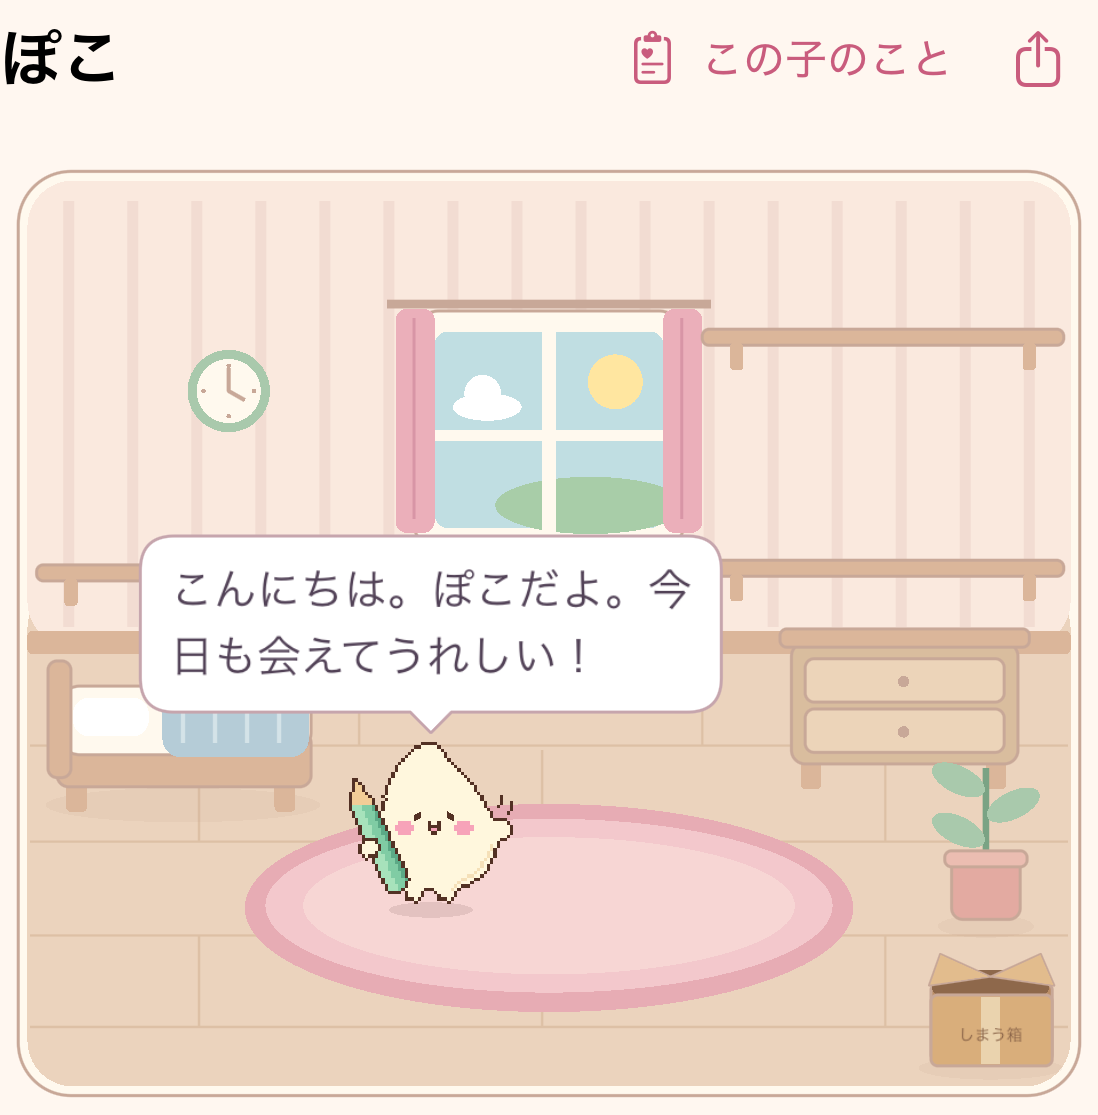
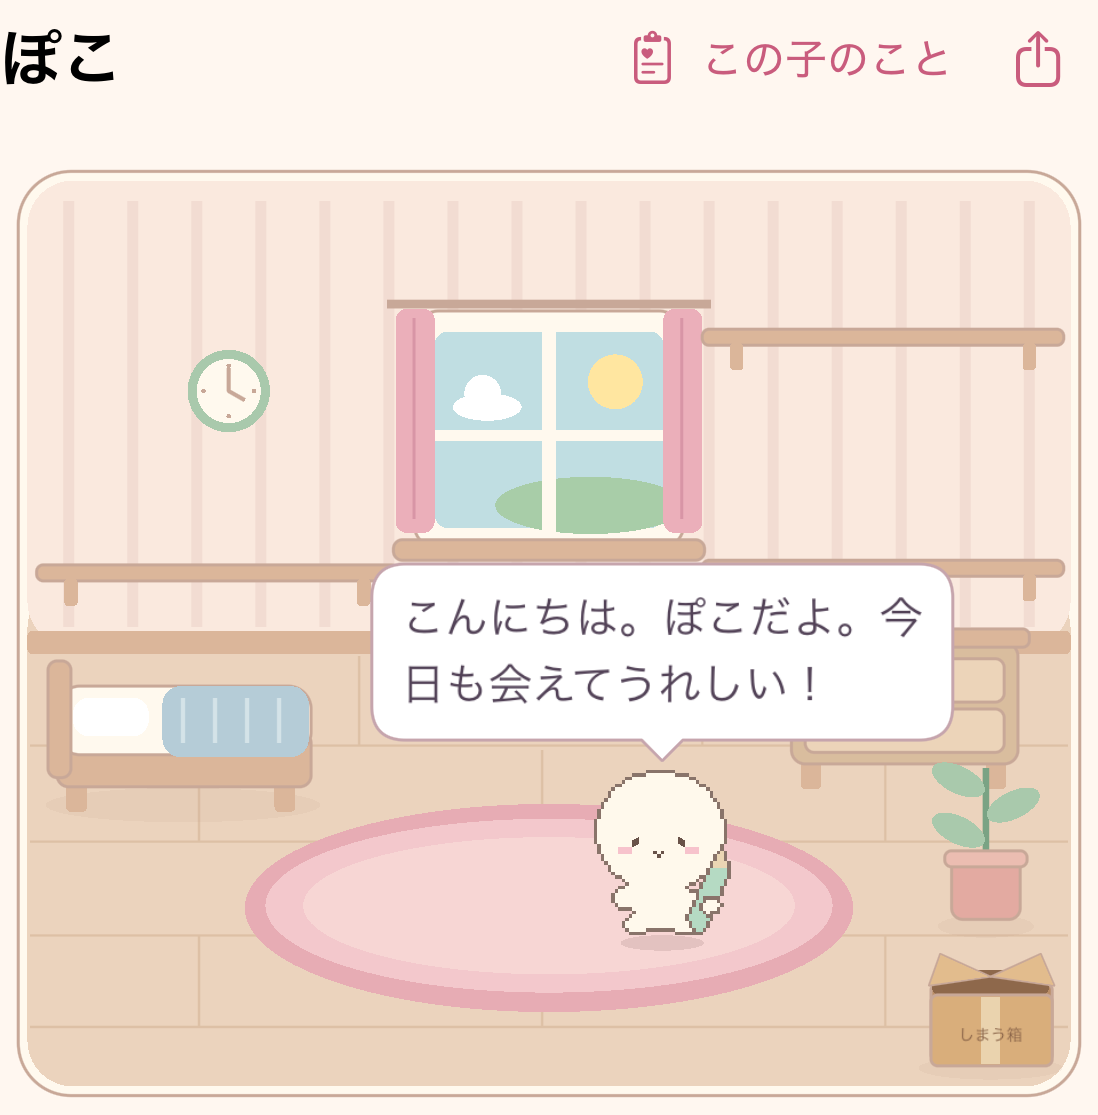
Soften Poco with a round face and small body

Changed region(s): [[0.1239, 0.4574, 0.867, 0.8538]]

diff --git a/index.html b/index.html
@@ -6,14 +6,14 @@
   <meta name="theme-color" content="#d4fb48">
   <meta name="description" content="らくがきに、いのちを。64×64の絵から生まれる、きみだけのともだち。iPhone・iPad向けおえかき育成アプリ「おえかきペット」。">
   <title>おえかきペット｜らくがきに、いのちを。</title>
-  <link rel="icon" type="image/png" href="assets/mascot-native-64.png">
+  <link rel="icon" type="image/png" href="assets/mascot-native-64.png?v=8278f9fb74bf">
   <link rel="stylesheet" href="style.css">
-  <script src="app.js?v=poco-native64" defer></script>
+  <script src="app.js?v=8278f9fb74bf" defer></script>
 </head>
 <body>
   <a class="skip-link" href="#main">本文へスキップ</a>
   <header class="header">
-    <a class="brand" href="#" aria-label="おえかきペット トップ"><img src="assets/mascot-native-64.png" width="48" height="48" alt=""><span>おえかきペット<span class="brand-sub">DRAW A LITTLE LIFE.</span></span></a>
+    <a class="brand" href="#" aria-label="おえかきペット トップ"><img src="assets/mascot-native-64.png?v=8278f9fb74bf" width="48" height="48" alt=""><span>おえかきペット<span class="brand-sub">DRAW A LITTLE LIFE.</span></span></a>
     <nav aria-label="メインナビゲーション"><a href="#about">どんなアプリ？</a><a href="#life">この子との暮らし</a><a class="nav-cta" href="#play">ちょっと描いてみる <span>↗</span></a></nav>
   </header>
   <main id="main">
@@ -31,7 +31,7 @@
           <div class="window-bar"><span><i></i><i></i><i></i></span><span>MY LITTLE FRIEND</span><span>64 × 64</span></div>
           <div class="mascot-stage" id="mascot-stage">
             <div class="stage-note">きみが描いた。<br>だから、特別。</div>
-            <button id="hero-pet" class="mascot-button" aria-label="看板ペットをなでる"><img id="hero-mascot" class="pixel mascot" src="assets/mascot-native-64.png" width="384" height="384" alt="クリーム色のしずく型の体にピンクのほっぺ、ミントの鉛筆を抱えた看板ペット"></button>
+            <button id="hero-pet" class="mascot-button" aria-label="看板ペットをなでる"><img id="hero-mascot" class="pixel mascot" src="assets/mascot-native-64.png?v=8278f9fb74bf" width="384" height="384" alt="大きな丸顔と小さな体、淡いほっぺ、ミントの鉛筆を抱えた看板ペット"></button>
             <p class="speech" id="hero-speech" aria-live="polite">やっほー！</p>
             <span class="stage-ground" aria-hidden="true"></span>
           </div>
@@ -45,13 +45,13 @@
     <div class="marquee" aria-hidden="true"><div>DRAW IT. LOVE IT. <span>✳</span> へたっぴ、だいかんげい。 <span>✳</span> DRAW IT. LOVE IT. <span>✳</span> へたっぴ、だいかんげい。 <span>✳</span> </div></div>
     <section class="intro section-wrap" id="about">
       <div class="section-kicker"><span>01 / HELLO, LITTLE LIFE</span><span>絵が、ペットになる。</span></div>
-      <div class="intro-layout"><div><h2>正解のない絵から、<br><span class="underline-pink">かけがえのない子。</span></h2><p class="body-copy">まるでも、しかくでも、なぞの生きものでも。<br>64×64のキャンバスに描いた絵が、<br>しゃべって、遊んで、いっしょに暮らすペットに。<br>上手に描くより、きみらしく描いてみて。</p></div><div class="intro-note"><span class="note-pin" aria-hidden="true">✳</span><img class="pixel" src="assets/mascot-native-64.png" width="192" height="192" alt="看板ペット"><p>はじめまして。<br>ぼくも、おえかきから<br>うまれました。</p><span class="note-bottom">SMALL CANVAS. BIG PERSONALITY.</span></div></div>
+      <div class="intro-layout"><div><h2>正解のない絵から、<br><span class="underline-pink">かけがえのない子。</span></h2><p class="body-copy">まるでも、しかくでも、なぞの生きものでも。<br>64×64のキャンバスに描いた絵が、<br>しゃべって、遊んで、いっしょに暮らすペットに。<br>上手に描くより、きみらしく描いてみて。</p></div><div class="intro-note"><span class="note-pin" aria-hidden="true">✳</span><img class="pixel" src="assets/mascot-native-64.png?v=8278f9fb74bf" width="192" height="192" alt="看板ペット"><p>はじめまして。<br>ぼくも、おえかきから<br>うまれました。</p><span class="note-bottom">SMALL CANVAS. BIG PERSONALITY.</span></div></div>
       <div class="pet-parade" aria-label="アプリの作例"><div class="parade-label">こんな子も、<br>あんな子も。<span>ALL FRIENDS WELCOME ↗</span></div><figure class="sample sample-pink"><img class="pixel" src="assets/pet-01.png" width="128" height="128" alt="ピンクの丸いペットの作例"><figcaption>まるい子</figcaption></figure><figure class="sample sample-blue"><img class="pixel" src="assets/pet-03.png" width="128" height="128" alt="おえかきペットの作例"><figcaption>ふしぎな子</figcaption></figure><figure class="sample sample-lime"><img class="pixel" src="assets/pet-06.png" width="128" height="128" alt="個性的なおえかきペットの作例"><figcaption>きみだけの子</figcaption></figure><div class="parade-end" aria-hidden="true">！</div></div>
     </section>
     <section class="life section-wrap" id="life">
       <div class="section-kicker"><span>02 / LITTLE MOMENTS, BIG LOVE</span><span>この子との暮らし。</span></div>
       <div class="life-heading"><h2>描いて、おくって、<br>いつのまにか、<span class="lime-text">家族。</span></h2><p>今日のらくがきが、ごはんに。<br>何気ない毎日が、思い出に。</p></div>
-      <div class="life-layout"><div class="room-frame"><div class="room-label"><span class="status-dot"></span> A DAY WITH YOUR PET</div><img src="assets/room-poco-native64.png" width="1098" height="1115" loading="lazy" alt="アプリのお部屋画面。64×64の原画を使った看板ペットのぽこが両目を開けて挨拶しています。"><span class="screen-note">実際のアプリ画面（静止画） / 看板ペット</span></div><div class="life-features"><article><span class="feature-no">01</span><div><h3>「できた！」が、プレゼント。</h3><p>りんごも、お花も、お気に入りのおもちゃも。描いたモノや写真をあげると、この子らしい反応が返ってきます。</p><span class="feature-tag">DRAW & GIVE</span></div></article><article><span class="feature-no">02</span><div><h3>好きも、性格も、育ってく。</h3><p>食べたり、遊んだり、宝物を飾ったり。一緒に過ごす経験から、その子の好みや個性が少しずつ育ちます。</p><span class="feature-tag">CARE & GROW</span></div></article><article><span class="feature-no">03</span><div><h3>冒険のつづきも、描いちゃおう。</h3><p>川を渡るなら、どんな道具？ 64×64の絵で困りごとを解決する、時間制限のないおえかき冒険ごっこ。</p><span class="feature-tag">DRAW & ADVENTURE</span></div></article></div></div>
+      <div class="life-layout"><div class="room-frame"><div class="room-label"><span class="status-dot"></span> A DAY WITH YOUR PET</div><img src="assets/room-poco-native64.png?v=8278f9fb74bf" width="1098" height="1115" loading="lazy" alt="アプリのお部屋画面。64×64の原画を使った看板ペットのぽこが両目を開けて挨拶しています。"><span class="screen-note">実際のアプリ画面（静止画） / 看板ペット</span></div><div class="life-features"><article><span class="feature-no">01</span><div><h3>「できた！」が、プレゼント。</h3><p>りんごも、お花も、お気に入りのおもちゃも。描いたモノや写真をあげると、この子らしい反応が返ってきます。</p><span class="feature-tag">DRAW & GIVE</span></div></article><article><span class="feature-no">02</span><div><h3>好きも、性格も、育ってく。</h3><p>食べたり、遊んだり、宝物を飾ったり。一緒に過ごす経験から、その子の好みや個性が少しずつ育ちます。</p><span class="feature-tag">CARE & GROW</span></div></article><article><span class="feature-no">03</span><div><h3>冒険のつづきも、描いちゃおう。</h3><p>川を渡るなら、どんな道具？ 64×64の絵で困りごとを解決する、時間制限のないおえかき冒険ごっこ。</p><span class="feature-tag">DRAW & ADVENTURE</span></div></article></div></div>
       <div class="privacy-note"><span class="privacy-symbol" aria-hidden="true">⌂</span><div><h3>ふたりの世界は、きみの端末の中に。</h3><p>絵の認識やペットとの会話は端末内で処理。画像を外部AIに送らずに、一緒の時間を育みます。</p></div><span>ON-DEVICE AI ↗</span></div>
     </section>
     <section class="play section-wrap" id="play">
@@ -59,9 +59,9 @@
       <div class="play-layout"><div class="play-copy"><span class="try-sticker">TRY ME!</span><h2>きみの指先に、<br><span class="underline-pink">ひとつの予感。</span></h2><p class="body-copy">思いつくまま、自由に線を。<br>「うごかす！」を押したら、<br>きみのらくがきが、ぴょこん。</p><p class="demo-note">これはWebで遊べる、おえかきミニ体験です。<br>アプリのAI認識・育成機能とは異なります。<br>描いた絵は、このページの外には送信されません。</p><span class="draw-arrow" aria-hidden="true">⤴</span></div><div class="drawing-window"><div class="window-bar"><span>LET’S DRAW A FRIEND</span><span>64 × 64</span></div><div class="drawing-paper" id="drawing-paper"><canvas id="drawing" width="64" height="64" aria-label="64×64のおえかきキャンバス。下のお手本ボタンでも体験できます。"></canvas><div class="drawing-guide" id="drawing-guide">ここに、すきな子を。<span>✎</span></div></div><div class="drawing-palette" role="group" aria-label="ペンの色"><button class="color selected" style="--swatch:#532f21" data-color="#532f21" aria-label="こげ茶" aria-pressed="true"></button><button class="color" style="--swatch:#fa92ac" data-color="#fa92ac" aria-label="ピンク" aria-pressed="false"></button><button class="color" style="--swatch:#85d7a7" data-color="#85d7a7" aria-label="ミント" aria-pressed="false"></button><button class="color" style="--swatch:#a0b9ff" data-color="#a0b9ff" aria-label="ブルー" aria-pressed="false"></button><button class="color" style="--swatch:#fff8de" data-color="#fff8de" aria-label="クリーム" aria-pressed="false"></button><button id="eraser" class="eraser" aria-label="消しゴム" aria-pressed="false">⌫</button></div><div class="drawing-options"><button id="sample">お手本をよぶ</button><button id="undo">ひとつ戻す</button><button id="clear">全部消す</button></div><button id="animate" class="button button-dark">うごかす！ <span>✳</span></button><p id="drawing-message" class="drawing-message" aria-live="polite">マウスでも、指でも、自由にどうぞ。</p></div></div>
     </section>
     <section class="faq section-wrap"><div class="section-kicker"><span>04 / GOOD TO KNOW</span><span>ちょっと気になること。</span></div><div class="faq-layout"><h2>はじめる前に、<br>もうすこし。</h2><div class="faq-list"><details><summary>どんな端末で遊べるの？<span>＋</span></summary><p>iPhone・iPad向けに開発しています。端末内AIにはApple Intelligence対応端末と、準備済みの端末内モデルが必要です。正式な対応環境・配信情報は、リリース時の案内をご確認ください。</p></details><details><summary>おえかきが苦手でも大丈夫？<span>＋</span></summary><p>もちろん。「ぽこの絵を呼び出す」で下絵を読み込み、好きな色や形に描き足せます。アプリは絵の上手さを採点しません。まるだけでも、不思議な形でも、きみだけのペットを描けます。モノの絵をうまく認識できない時も、下書きを残してやり直せます。</p></details><details><summary>描いた絵は外に送られる？<span>＋</span></summary><p>ペットや贈り物の認識、会話の生成、保存は端末内で処理します。画像を外部AIへ送信することはありません。天気やアプリ内課金など、一部の機能は通信を利用します。</p></details><details><summary>もうダウンロードできる？<span>＋</span></summary><p>現在開発中です。このページでは、おえかきのWebミニ体験を楽しめます。配信に関する情報は、今後の公式案内をお待ちください。</p></details></div></div></section>
-    <section class="closing"><span class="closing-kicker">A LITTLE DRAWING. A LOT OF LOVE.</span><h2>まだ見ぬともだちは、<br>きみの中にいる。</h2><a class="button button-dark" href="#play">さあ、描いてみよう <span>↗</span></a><img class="pixel closing-mascot" src="assets/mascot-native-64.png" width="256" height="256" loading="lazy" alt="鉛筆を抱えた看板ペット"><span class="closing-star" aria-hidden="true">✳</span></section>
+    <section class="closing"><span class="closing-kicker">A LITTLE DRAWING. A LOT OF LOVE.</span><h2>まだ見ぬともだちは、<br>きみの中にいる。</h2><a class="button button-dark" href="#play">さあ、描いてみよう <span>↗</span></a><img class="pixel closing-mascot" src="assets/mascot-native-64.png?v=8278f9fb74bf" width="256" height="256" loading="lazy" alt="鉛筆を抱えた看板ペット"><span class="closing-star" aria-hidden="true">✳</span></section>
   </main>
-  <footer><a class="brand" href="#"><img src="assets/mascot-native-64.png" width="40" height="40" alt=""><span>おえかきペット</span></a><p>きみの絵が、ちいさなともだちに。</p><a href="https://github.com/ki-84/paint-pet-support" target="_blank" rel="noopener noreferrer">公式GitHub ↗</a><span>© 2026 おえかきペット</span></footer>
+  <footer><a class="brand" href="#"><img src="assets/mascot-native-64.png?v=8278f9fb74bf" width="40" height="40" alt=""><span>おえかきペット</span></a><p>きみの絵が、ちいさなともだちに。</p><a href="https://github.com/ki-84/paint-pet-support" target="_blank" rel="noopener noreferrer">公式GitHub ↗</a><span>© 2026 おえかきペット</span></footer>
   <div class="confetti-layer" id="confetti" aria-hidden="true"></div>
 </body>
 </html>

diff --git a/app.js b/app.js
@@ -54,7 +54,7 @@ undoButton.addEventListener("click", () => { sampleGeneration++; stopMoving(); c
 sampleButton.addEventListener("click", async () => {
   const generation = ++sampleGeneration;
   sampleButton.disabled = true;
-  const img = new Image(); img.src = "assets/mascot-native-64.png";
+  const img = new Image(); img.src = "assets/mascot-native-64.png?v=8278f9fb74bf";
   try { await img.decode(); if (generation !== sampleGeneration) return; stopMoving(); remember(); context.clearRect(0,0,64,64); context.drawImage(img,0,0,64,64); update(); message.textContent = "看板ペットがきたよ！ 描き足しても、いいんだよ。"; }
   catch { message.textContent = "お手本を読み込めませんでした。もう一度ためしてね。"; }
   finally { sampleButton.disabled = false; }
